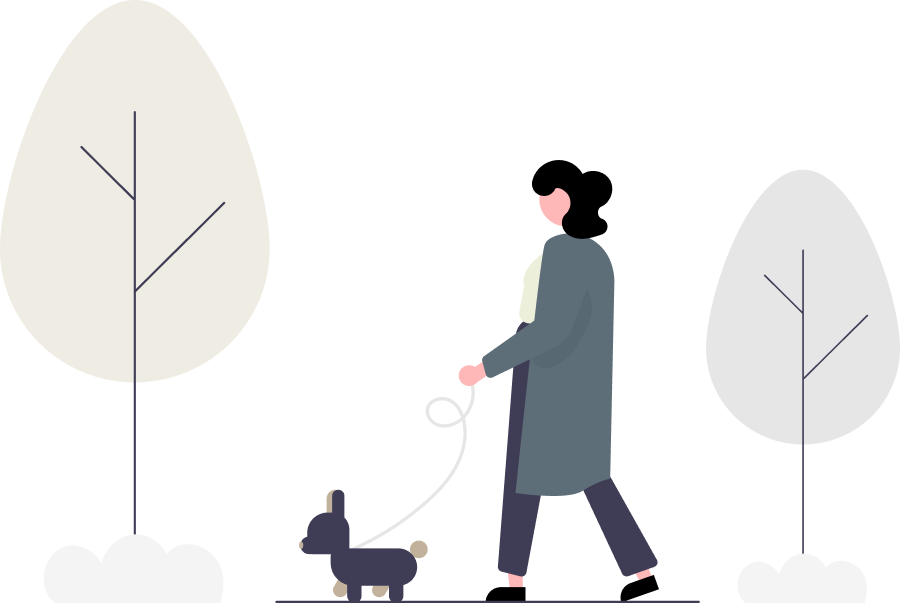
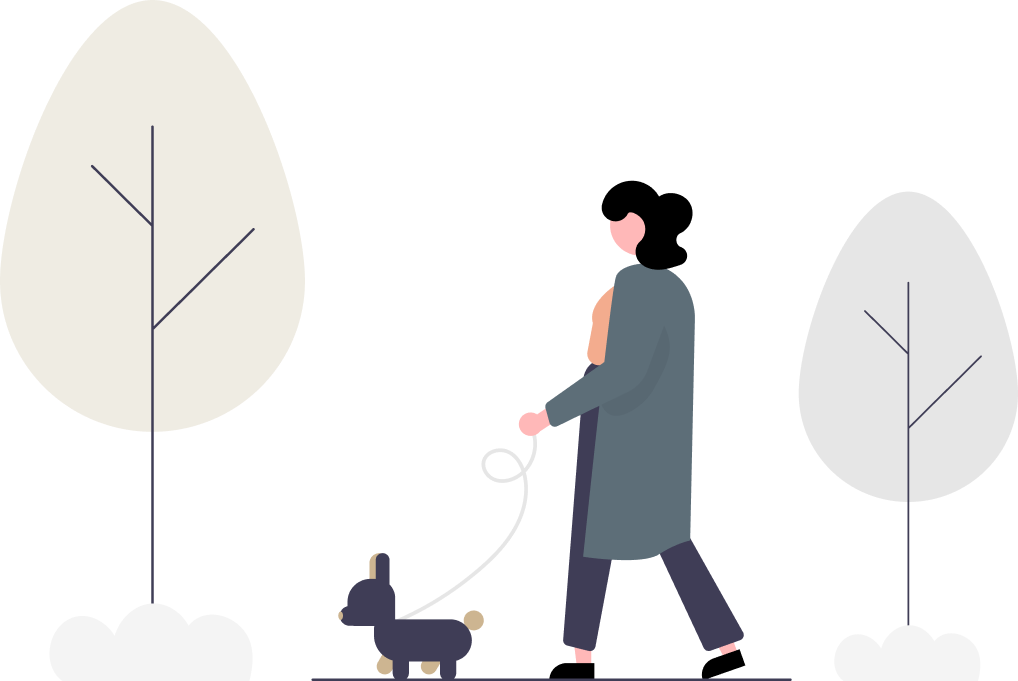
change colors + change login & registration images

diff --git a/components/Scoped/UserProfile/FUserProfileCard.jsx b/components/Scoped/UserProfile/FUserProfileCard.jsx
@@ -85,7 +85,11 @@ export const FUserProfileCard = ({
         ...styles.centerView,
       }}
     >
-      <View style={styles.avatarContainer}>
+      <View style={{
+        ...styles.avatarContainer,
+        marginBottom: !user.name ? 0 : sizes.MARGIN_8,
+      }}
+      >
         {drawAvatarDependingOnUser()}
       </View>
       <View style={styles.widthFull}>
@@ -93,19 +97,23 @@ export const FUserProfileCard = ({
         <View style={{
           ...styles.widthFull,
           marginTop: !user.bio ? 0 : sizes.MARGIN_5,
+          marginBottom: sizes.MARGIN_5,
         }}
         >
-          <FHeadingWithIcon
-            icon={icons.LOCATION_OUTLINE}
-            iconSize={sizes.ICON_20}
-            iconColor={colors.DARK_GRAY}
-            iconPlacement={placements.LEFT}
-            title={parseLocation(user.street, user.city)}
-            titleColor={colors.DARK_GRAY}
-            titleWeight={fonts.HEADING_WEIGHT_MEDIUM}
-            titleSize={fonts.HEADING_MEDIUM}
-            titleStyle={{ marginLeft: sizes.MARGIN_3 }}
-          />
+          {parseLocation(user.street, user.city) && (
+            <FHeadingWithIcon
+              icon={icons.LOCATION_OUTLINE}
+              iconSize={sizes.ICON_20}
+              iconColor={colors.DARK_GRAY}
+              iconPlacement={placements.LEFT}
+              title={parseLocation(user.street, user.city)}
+              titleColor={colors.DARK_GRAY}
+              titleWeight={fonts.HEADING_WEIGHT_MEDIUM}
+              titleSize={fonts.HEADING_MEDIUM}
+              titleStyle={{ marginLeft: sizes.MARGIN_3 }}
+            />
+          )}
+
         </View>
         <View style={{
           ...styles.widthFull,
@@ -122,7 +130,7 @@ export const FUserProfileCard = ({
         </View>
         {user?.phoneNumber !== '' && (
           <FPhoneNumber
-            style={{ marginTop: sizes.MARGIN_20 }}
+            style={{ marginTop: !user.bio ? 0 : sizes.MARGIN_20 }}
             phoneNumber={user.phoneNumber}
             color={colors.BLACK}
             weight={fonts.HEADING_WEIGHT_SEMIBOLD}

diff --git a/components/Buttons/FButton.jsx b/components/Buttons/FButton.jsx
@@ -12,7 +12,7 @@ import colors from 'themes/colors';
 
 export const FButton = ({
   type, icon = '', title = '', to, color, titleSize, titleWeight, iconSize, onPress, buttonViewStyles,
-  backgroundColor, iconPlacement = placements.RIGHT, style,
+  backgroundColor, iconPlacement = placements.RIGHT, style, isUnderline,
 }) => {
   const navigation = useNavigation();
   const drawLinkButton = () => (
@@ -31,17 +31,13 @@ export const FButton = ({
           color={color}
           size={titleSize}
           weight={titleWeight}
+          isUnderline={isUnderline}
         />
       </View>
     </TouchableOpacity>
   );
   const drawIconButton = () => (
     <TouchableOpacity
-      // containerStyle={{
-      //   padding: sizes.PADDING_20,
-      //   backgroundColor,
-      //   ...style,
-      // }}
       onPressIn={onPress}
       style={{
         padding: sizes.PADDING_20,

diff --git a/themes/colors.js b/themes/colors.js
@@ -5,9 +5,9 @@ export default {
   LIGHT_GRAY: '#F4F4F4',
   LIGHTEST_GRAY: '#FBFAF7',
   GRAY: '#E6E6E6',
-  DANGER: '#F0827F',
-  WARNING: '#FEC779',
-  SUCCESS: '#96C8A7',
+  DANGER: '#FF4C00',
+  WARNING: '#FF9600 ',
+  SUCCESS: '#00D222',
   WHITE: '#FFFFFF',
   OVERLAY: 'rgba(255, 255, 255, 0.5)',
   OVERLAY_DARK: 'rgba(0, 0, 0, 0.5)',

diff --git a/components/Composition/FHeading.jsx b/components/Composition/FHeading.jsx
@@ -18,6 +18,7 @@ export const FHeading = ({
       fontWeight: weight,
       textAlign: align,
       textDecorationLine: isUnderline ? 'underline' : 'none',
+      includeFontPadding: false,
     }}
     >
       {title}

diff --git a/screens/UserProfilePreview.screen.jsx b/screens/UserProfilePreview.screen.jsx
@@ -14,7 +14,7 @@ export const UserProfilePreviewScreen = () => {
   const {
     setShowErrorModal,
     drawErrorModal,
-  } = useErrorModal();
+  } = useErrorModal(true);
 
   useEffect(() => {
     fetchUser();
